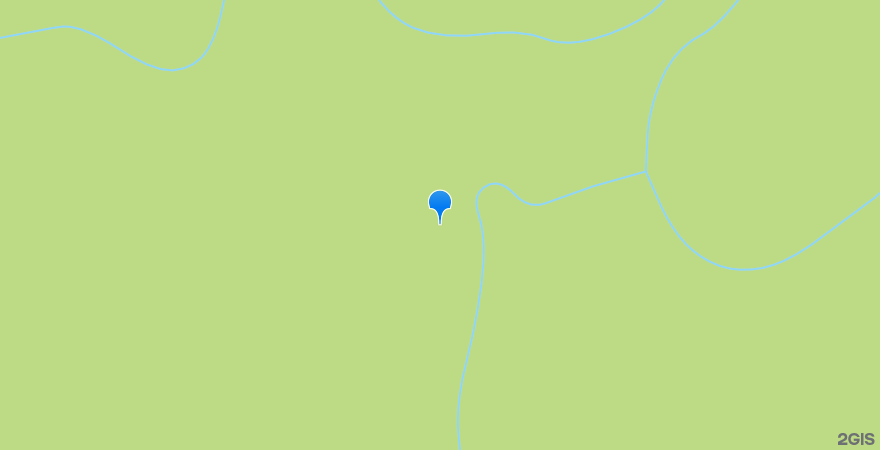
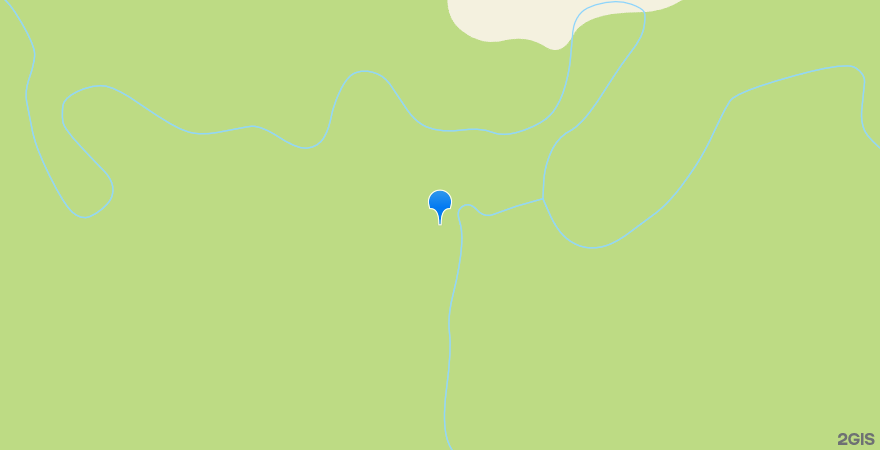
avtolux-magnitogorsk: карта по 2ГИС, крупнее логотип на hero
Координаты фирмы z=15, пересобраны map PNG; hero AVTO LuX чуть крупнее.

diff --git a/avtolux-magnitogorsk/index.html b/avtolux-magnitogorsk/index.html
@@ -5,7 +5,7 @@
 <meta name="viewport" content="width=device-width,initial-scale=1">
 <meta name="robots" content="noindex, nofollow">
 <title>Avto LuX — Магнитогорск</title>
-<link rel="stylesheet" href="styles.css?v=129">
+<link rel="stylesheet" href="styles.css?v=130">
 </head>
 <body>
 <nav class="site-nav">
@@ -34,7 +34,7 @@
       <div class="eyebrow hero-eyebrow-city">МАГНИТОГОРСК</div>
       <div class="hero-logo-wrap">
         <h1 class="hero-logo-spacer" aria-hidden="true">ДЕТЕЙЛИНГ-<br>СТУДИЯ<br><span class="accent">AVTO LuX</span></h1>
-        <img class="hero-brand-logo" src="img/brand/logo-avtolux-hero.svg?v=2" width="500" height="500" alt="Avto LuX">
+        <img class="hero-brand-logo" src="img/brand/logo-avtolux-hero.svg?v=3" width="500" height="500" alt="Avto LuX">
       </div>
     </div>
     <div class="hero-content">
@@ -145,8 +145,8 @@
       </div>
       <div class="address-map-visual">
         <a href="https://2gis.ru/magnitogorsk/firm/70000001048501918" class="address-map-frame" target="_blank" rel="noopener noreferrer">
-          <img class="address-map-img address-map-img--desktop" src="img/map-2gis-desktop.png?v=1" alt="">
-          <img class="address-map-img address-map-img--mobile" src="img/map-2gis-mobile.png?v=1" alt="Карта 2ГИС — Магнитогорск, проспект Карла Маркса, 172">
+          <img class="address-map-img address-map-img--desktop" src="img/map-2gis-desktop.png?v=2" alt="">
+          <img class="address-map-img address-map-img--mobile" src="img/map-2gis-mobile.png?v=2" alt="Карта 2ГИС — Магнитогорск, проспект Карла Маркса, 172">
           <div class="address-map-pin-label" aria-hidden="true">
             <span class="address-map-pin-label-text"><span class="logo-mark">AVTO</span><span class="logo-word">LuX</span></span>
           </div>

diff --git a/avtolux-magnitogorsk/services/ceramic.html b/avtolux-magnitogorsk/services/ceramic.html
@@ -60,8 +60,8 @@
       </div>
       <div class="address-map-visual">
         <a href="https://2gis.ru/magnitogorsk/firm/70000001048501918" class="address-map-frame" target="_blank" rel="noopener noreferrer">
-          <img class="address-map-img address-map-img--desktop" src="../img/map-2gis-desktop.png?v=1" alt="">
-          <img class="address-map-img address-map-img--mobile" src="../img/map-2gis-mobile.png?v=1" alt="Карта 2ГИС — Магнитогорск, проспект Карла Маркса, 172">
+          <img class="address-map-img address-map-img--desktop" src="../img/map-2gis-desktop.png?v=2" alt="">
+          <img class="address-map-img address-map-img--mobile" src="../img/map-2gis-mobile.png?v=2" alt="Карта 2ГИС — Магнитогорск, проспект Карла Маркса, 172">
           <div class="address-map-pin-label" aria-hidden="true">
             <span class="address-map-pin-label-text"><span class="logo-mark">AVTO</span><span class="logo-word">LuX</span></span>
           </div>

diff --git a/avtolux-magnitogorsk/services/interior.html b/avtolux-magnitogorsk/services/interior.html
@@ -60,8 +60,8 @@
       </div>
       <div class="address-map-visual">
         <a href="https://2gis.ru/magnitogorsk/firm/70000001048501918" class="address-map-frame" target="_blank" rel="noopener noreferrer">
-          <img class="address-map-img address-map-img--desktop" src="../img/map-2gis-desktop.png?v=1" alt="">
-          <img class="address-map-img address-map-img--mobile" src="../img/map-2gis-mobile.png?v=1" alt="Карта 2ГИС — Магнитогорск, проспект Карла Маркса, 172">
+          <img class="address-map-img address-map-img--desktop" src="../img/map-2gis-desktop.png?v=2" alt="">
+          <img class="address-map-img address-map-img--mobile" src="../img/map-2gis-mobile.png?v=2" alt="Карта 2ГИС — Магнитогорск, проспект Карла Маркса, 172">
           <div class="address-map-pin-label" aria-hidden="true">
             <span class="address-map-pin-label-text"><span class="logo-mark">AVTO</span><span class="logo-word">LuX</span></span>
           </div>

diff --git a/avtolux-magnitogorsk/services/polish.html b/avtolux-magnitogorsk/services/polish.html
@@ -60,8 +60,8 @@
       </div>
       <div class="address-map-visual">
         <a href="https://2gis.ru/magnitogorsk/firm/70000001048501918" class="address-map-frame" target="_blank" rel="noopener noreferrer">
-          <img class="address-map-img address-map-img--desktop" src="../img/map-2gis-desktop.png?v=1" alt="">
-          <img class="address-map-img address-map-img--mobile" src="../img/map-2gis-mobile.png?v=1" alt="Карта 2ГИС — Магнитогорск, проспект Карла Маркса, 172">
+          <img class="address-map-img address-map-img--desktop" src="../img/map-2gis-desktop.png?v=2" alt="">
+          <img class="address-map-img address-map-img--mobile" src="../img/map-2gis-mobile.png?v=2" alt="Карта 2ГИС — Магнитогорск, проспект Карла Маркса, 172">
           <div class="address-map-pin-label" aria-hidden="true">
             <span class="address-map-pin-label-text"><span class="logo-mark">AVTO</span><span class="logo-word">LuX</span></span>
           </div>

diff --git a/avtolux-magnitogorsk/services/ppf.html b/avtolux-magnitogorsk/services/ppf.html
@@ -60,8 +60,8 @@
       </div>
       <div class="address-map-visual">
         <a href="https://2gis.ru/magnitogorsk/firm/70000001048501918" class="address-map-frame" target="_blank" rel="noopener noreferrer">
-          <img class="address-map-img address-map-img--desktop" src="../img/map-2gis-desktop.png?v=1" alt="">
-          <img class="address-map-img address-map-img--mobile" src="../img/map-2gis-mobile.png?v=1" alt="Карта 2ГИС — Магнитогорск, проспект Карла Маркса, 172">
+          <img class="address-map-img address-map-img--desktop" src="../img/map-2gis-desktop.png?v=2" alt="">
+          <img class="address-map-img address-map-img--mobile" src="../img/map-2gis-mobile.png?v=2" alt="Карта 2ГИС — Магнитогорск, проспект Карла Маркса, 172">
           <div class="address-map-pin-label" aria-hidden="true">
             <span class="address-map-pin-label-text"><span class="logo-mark">AVTO</span><span class="logo-word">LuX</span></span>
           </div>

diff --git a/avtolux-magnitogorsk/services/soundproof.html b/avtolux-magnitogorsk/services/soundproof.html
@@ -60,8 +60,8 @@
       </div>
       <div class="address-map-visual">
         <a href="https://2gis.ru/magnitogorsk/firm/70000001048501918" class="address-map-frame" target="_blank" rel="noopener noreferrer">
-          <img class="address-map-img address-map-img--desktop" src="../img/map-2gis-desktop.png?v=1" alt="">
-          <img class="address-map-img address-map-img--mobile" src="../img/map-2gis-mobile.png?v=1" alt="Карта 2ГИС — Магнитогорск, проспект Карла Маркса, 172">
+          <img class="address-map-img address-map-img--desktop" src="../img/map-2gis-desktop.png?v=2" alt="">
+          <img class="address-map-img address-map-img--mobile" src="../img/map-2gis-mobile.png?v=2" alt="Карта 2ГИС — Магнитогорск, проспект Карла Маркса, 172">
           <div class="address-map-pin-label" aria-hidden="true">
             <span class="address-map-pin-label-text"><span class="logo-mark">AVTO</span><span class="logo-word">LuX</span></span>
           </div>

diff --git a/avtolux-magnitogorsk/services/tint.html b/avtolux-magnitogorsk/services/tint.html
@@ -60,8 +60,8 @@
       </div>
       <div class="address-map-visual">
         <a href="https://2gis.ru/magnitogorsk/firm/70000001048501918" class="address-map-frame" target="_blank" rel="noopener noreferrer">
-          <img class="address-map-img address-map-img--desktop" src="../img/map-2gis-desktop.png?v=1" alt="">
-          <img class="address-map-img address-map-img--mobile" src="../img/map-2gis-mobile.png?v=1" alt="Карта 2ГИС — Магнитогорск, проспект Карла Маркса, 172">
+          <img class="address-map-img address-map-img--desktop" src="../img/map-2gis-desktop.png?v=2" alt="">
+          <img class="address-map-img address-map-img--mobile" src="../img/map-2gis-mobile.png?v=2" alt="Карта 2ГИС — Магнитогорск, проспект Карла Маркса, 172">
           <div class="address-map-pin-label" aria-hidden="true">
             <span class="address-map-pin-label-text"><span class="logo-mark">AVTO</span><span class="logo-word">LuX</span></span>
           </div>

diff --git a/avtolux-magnitogorsk/services/wash.html b/avtolux-magnitogorsk/services/wash.html
@@ -60,8 +60,8 @@
       </div>
       <div class="address-map-visual">
         <a href="https://2gis.ru/magnitogorsk/firm/70000001048501918" class="address-map-frame" target="_blank" rel="noopener noreferrer">
-          <img class="address-map-img address-map-img--desktop" src="../img/map-2gis-desktop.png?v=1" alt="">
-          <img class="address-map-img address-map-img--mobile" src="../img/map-2gis-mobile.png?v=1" alt="Карта 2ГИС — Магнитогорск, проспект Карла Маркса, 172">
+          <img class="address-map-img address-map-img--desktop" src="../img/map-2gis-desktop.png?v=2" alt="">
+          <img class="address-map-img address-map-img--mobile" src="../img/map-2gis-mobile.png?v=2" alt="Карта 2ГИС — Магнитогорск, проспект Карла Маркса, 172">
           <div class="address-map-pin-label" aria-hidden="true">
             <span class="address-map-pin-label-text"><span class="logo-mark">AVTO</span><span class="logo-word">LuX</span></span>
           </div>

diff --git a/avtolux-magnitogorsk/services/wrap.html b/avtolux-magnitogorsk/services/wrap.html
@@ -60,8 +60,8 @@
       </div>
       <div class="address-map-visual">
         <a href="https://2gis.ru/magnitogorsk/firm/70000001048501918" class="address-map-frame" target="_blank" rel="noopener noreferrer">
-          <img class="address-map-img address-map-img--desktop" src="../img/map-2gis-desktop.png?v=1" alt="">
-          <img class="address-map-img address-map-img--mobile" src="../img/map-2gis-mobile.png?v=1" alt="Карта 2ГИС — Магнитогорск, проспект Карла Маркса, 172">
+          <img class="address-map-img address-map-img--desktop" src="../img/map-2gis-desktop.png?v=2" alt="">
+          <img class="address-map-img address-map-img--mobile" src="../img/map-2gis-mobile.png?v=2" alt="Карта 2ГИС — Магнитогорск, проспект Карла Маркса, 172">
           <div class="address-map-pin-label" aria-hidden="true">
             <span class="address-map-pin-label-text"><span class="logo-mark">AVTO</span><span class="logo-word">LuX</span></span>
           </div>

diff --git a/avtolux-magnitogorsk/about.html b/avtolux-magnitogorsk/about.html
@@ -84,8 +84,8 @@
       </div>
       <div class="address-map-visual">
         <a href="https://2gis.ru/magnitogorsk/firm/70000001048501918" class="address-map-frame" target="_blank" rel="noopener noreferrer">
-          <img class="address-map-img address-map-img--desktop" src="img/map-2gis-desktop.png?v=1" alt="">
-          <img class="address-map-img address-map-img--mobile" src="img/map-2gis-mobile.png?v=1" alt="Карта 2ГИС — Магнитогорск, проспект Карла Маркса, 172">
+          <img class="address-map-img address-map-img--desktop" src="img/map-2gis-desktop.png?v=2" alt="">
+          <img class="address-map-img address-map-img--mobile" src="img/map-2gis-mobile.png?v=2" alt="Карта 2ГИС — Магнитогорск, проспект Карла Маркса, 172">
           <div class="address-map-pin-label" aria-hidden="true">
             <span class="address-map-pin-label-text"><span class="logo-mark">AVTO</span><span class="logo-word">LuX</span></span>
           </div>

diff --git a/avtolux-magnitogorsk/contact.html b/avtolux-magnitogorsk/contact.html
@@ -73,8 +73,8 @@
       </div>
       <div class="address-map-visual">
         <a href="https://2gis.ru/magnitogorsk/firm/70000001048501918" class="address-map-frame" target="_blank" rel="noopener noreferrer">
-          <img class="address-map-img address-map-img--desktop" src="img/map-2gis-desktop.png?v=1" alt="">
-          <img class="address-map-img address-map-img--mobile" src="img/map-2gis-mobile.png?v=1" alt="Карта 2ГИС — Магнитогорск, проспект Карла Маркса, 172">
+          <img class="address-map-img address-map-img--desktop" src="img/map-2gis-desktop.png?v=2" alt="">
+          <img class="address-map-img address-map-img--mobile" src="img/map-2gis-mobile.png?v=2" alt="Карта 2ГИС — Магнитогорск, проспект Карла Маркса, 172">
           <div class="address-map-pin-label" aria-hidden="true">
             <span class="address-map-pin-label-text"><span class="logo-mark">AVTO</span><span class="logo-word">LuX</span></span>
           </div>

diff --git a/avtolux-magnitogorsk/gallery.html b/avtolux-magnitogorsk/gallery.html
@@ -61,8 +61,8 @@
       </div>
       <div class="address-map-visual">
         <a href="https://2gis.ru/magnitogorsk/firm/70000001048501918" class="address-map-frame" target="_blank" rel="noopener noreferrer">
-          <img class="address-map-img address-map-img--desktop" src="img/map-2gis-desktop.png?v=1" alt="">
-          <img class="address-map-img address-map-img--mobile" src="img/map-2gis-mobile.png?v=1" alt="Карта 2ГИС — Магнитогорск, проспект Карла Маркса, 172">
+          <img class="address-map-img address-map-img--desktop" src="img/map-2gis-desktop.png?v=2" alt="">
+          <img class="address-map-img address-map-img--mobile" src="img/map-2gis-mobile.png?v=2" alt="Карта 2ГИС — Магнитогорск, проспект Карла Маркса, 172">
           <div class="address-map-pin-label" aria-hidden="true">
             <span class="address-map-pin-label-text"><span class="logo-mark">AVTO</span><span class="logo-word">LuX</span></span>
           </div>
